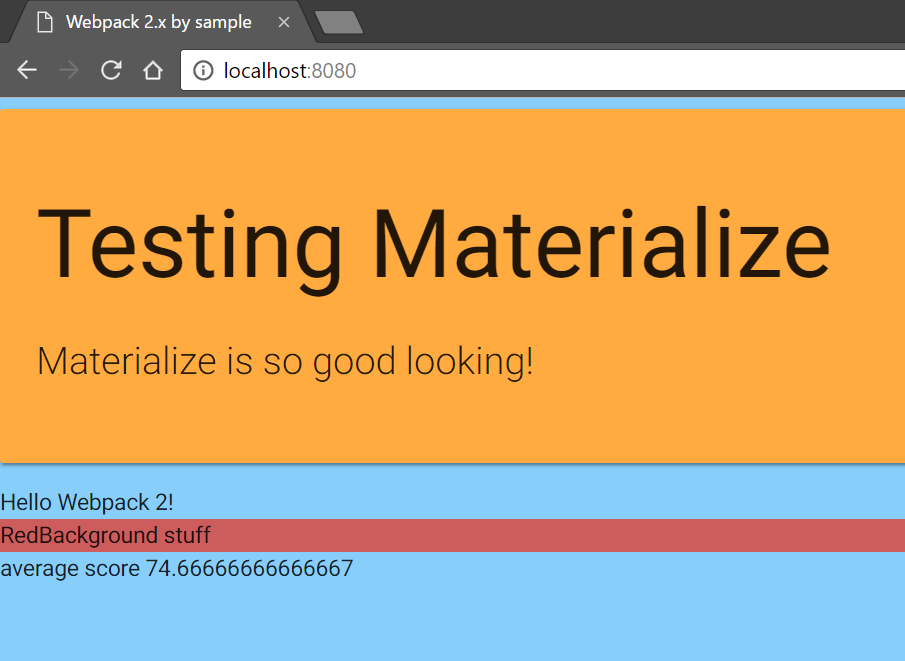
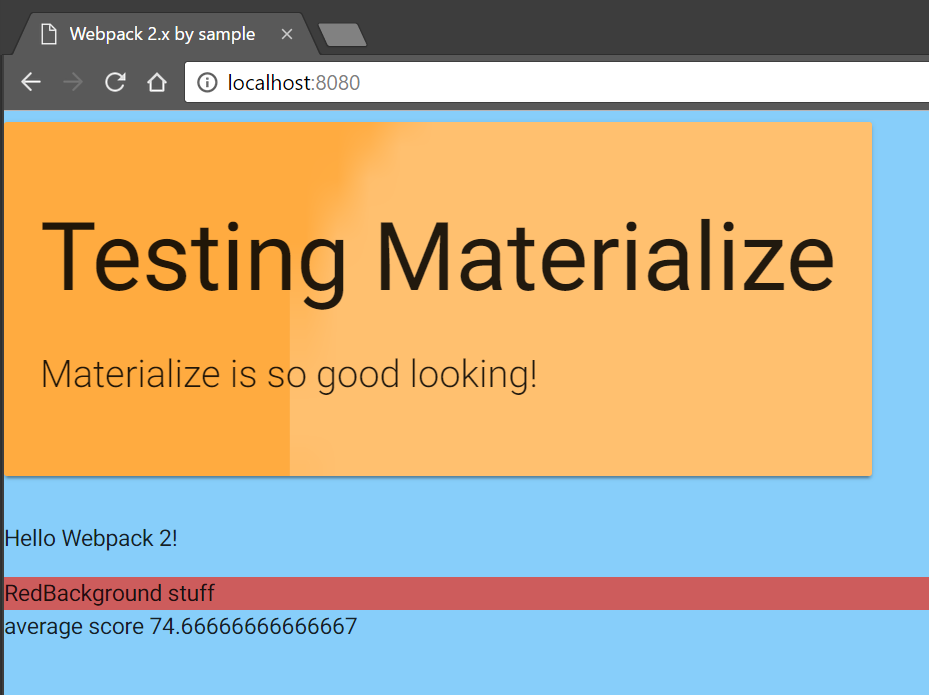
Update sample to also add materialize.js library

diff --git a/01 Styles/05 Import Materialize/index.html b/01 Styles/05 Import Materialize/index.html
@@ -7,13 +7,13 @@
     <title>Webpack 2.x by sample</title>
   </head>
   <body>
-    <div class="card-panel orange accent-2">
+    <div class="card-panel orange accent-2 waves-effect waves-light">
       <h1>Testing Materialize</h1>
       <p class="flow-text">
         Materialize is so good looking!
       </p>
     </div>
-    Hello Webpack 2!
+    <p>Hello Webpack 2!</p>
     <div class="red-background ">
       RedBackground stuff
     </div>

diff --git a/01 Styles/05 Import Materialize/webpack.config.js b/01 Styles/05 Import Materialize/webpack.config.js
@@ -13,6 +13,7 @@ module.exports = {
     ],
     vendor: [
       'jquery',
+      './node_modules/materialize-css/dist/js/materialize.js',
     ],
     vendorStyles: [
       './node_modules/materialize-css/dist/css/materialize.css',

diff --git a/01 Styles/05 Import Materialize/README.md b/01 Styles/05 Import Materialize/README.md
@@ -6,7 +6,7 @@ We will start from sample _01 Styles / 01 Custom CSS_.
 
 Summary steps:
  - Install Materialize.
- - Import the CSS library.
+ - Import the CSS and JS library.
  - Use a card element from Materialize in our HTML.
  - Check that we get errors when running webpack.
  - Install additional loaders in order to manage fonts and other
@@ -33,7 +33,7 @@ You will need to have [Node.js](https://nodejs.org/en/) installed in your comput
   npm install materialize-css --save
   ```
 
-- Now, let's import the CSS library in order to include it in our project:
+- Now, let's import the CSS and JS library in order to include it in our project:
 
   ### ./webpack.config.js
   ```diff
@@ -47,6 +47,7 @@ You will need to have [Node.js](https://nodejs.org/en/) installed in your comput
       ],
       vendor: [
         'jquery',
+  +     './node_modules/materialize-css/dist/js/materialize.js',
       ],
   +   vendorStyles: [
   +     './node_modules/materialize-css/dist/css/materialize.css',
@@ -89,7 +90,7 @@ You will need to have [Node.js](https://nodejs.org/en/) installed in your comput
 
   ```
 
-- Let's modify our *index.html* and include some specific Materialize component:
+- Let's modify our *index.html* and include some specific Materialize component. Also, let's add some special effects that requires the JavaScript part of Materialize:
 
   ### ./index.html
   ```diff
@@ -102,13 +103,14 @@ You will need to have [Node.js](https://nodejs.org/en/) installed in your comput
       <title>Webpack 2.x by sample</title>
     </head>
     <body>
-  +   <div class="card-panel orange accent-2">
+  +   <div class="card-panel orange accent-2 waves-effect waves-light">
   +     <h1>Testing Materialize</h1>
   +     <p class="flow-text">
   +       Materialize is so good looking!
   +     </p>
   +   </div>
-      Hello Webpack 2!
+  -   Hello Webpack 2!
+  +   <p>Hello Webpack 2!</p>
       <div class="red-background ">
         RedBackground stuff
       </div>
@@ -179,6 +181,6 @@ You will need to have [Node.js](https://nodejs.org/en/) installed in your comput
   ```
   npm start
   ```
-  Check that our page is being displayed using Materialize Card component (see [Materialize's cards](http://materializecss.com/cards.html)).
+  Check that our page is being displayed using Materialize Card component (see [Materialize's cards](http://materializecss.com/cards.html)). Click on the new component to make sure that you see a wave effect over it. Cool!
 
   ![result](../../99%20Readme%20Resources/01%20Styles/05%20Import%20Materialize/result.png)
